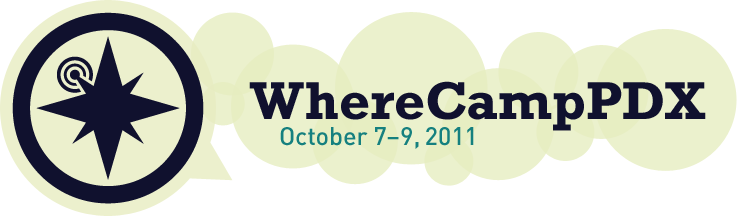
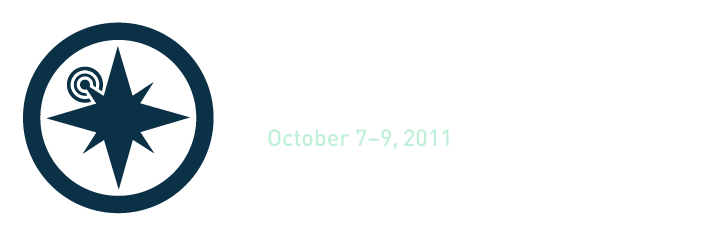
Improved 2011 theme, widened site

diff --git a/style.css b/style.css
@@ -45,7 +45,7 @@ clear:both;
 }
 
 div#container,div#primary {
-margin-top:2em;
+margin-top:1em;
 }
 
 form#commentform .form-label {
@@ -153,7 +153,6 @@ text-align:right;
 
 div.sidebar h3 {
 font-size:1.2em;
-font-family: Garamond, "Times New Roman", Times, serif
 }
 
 div.sidebar input#s {
@@ -213,14 +212,14 @@ body {
 }
 
 #wrapper {
-	width: 900px;
-	margin: 20px auto;
+	width: 960px;
+	margin: 0 auto 20px;
 	position: relative;
 }
 
 #header {
-	background: url('i/header.png') no-repeat 80px 40px;
-	height: 256px;
+	background: url('i/header.png') no-repeat 115px 7px;
+	height: 246px;
 	position: relative;
 	z-index: 5;
 }
@@ -246,7 +245,7 @@ body {
 
 div#menu {
 	position: absolute;
-	top: 0px;
+	top: 20px;
 	right: 0;
 	/* -webkit-box-shadow: -10px 8px 20px rgba(0, 0, 0, 0.7);*/
 	/* -moz-box-shadow: -10px 8px 20px rgba(0, 0, 0, 0.7);*/
@@ -262,9 +261,8 @@ div#menu ul a {
 	text-decoration:none;
 	border-left: 1px solid #ccc;
 	color: #10112e;
-	background: #e6edc0;
-  background: rgba(230, 237, 192,0.8);
-	font-family: "Lucida Grande", "Lucida Sans", "Verdana", sans-serif;
+	background: #fff;
+  background: rgba(255, 255, 255,0.8);
 	font-weight: bold;
 }
  
@@ -285,20 +283,21 @@ div#menu ul a.last {
 
 div#menu ul a.active {
 	background: #fff;
+  color: #43457c;
 }
 
 div#menu ul a:hover {
-	background: #f6f6f6;
+	background: #fff;
 }
 
 #content {
-  background: #e6edc0;
-  background: rgba(230, 237, 192,0.8);
-	width: 620px;
+  /* background: #e6edc0;*/
+  /* background: rgba(230, 237, 192,0.8);*/
+	width: 685px;
 	position: absolute;
 	left: 75px;
-	top: 240px;
-	padding: .5em .5em 0 .5em;
+	top: 233px;
+	/* padding: .5em .5em 0 .5em;*/
 	z-index: 1;
 	-moz-border-radius: .5em;
 	-webkit-border-radius: .5em;
@@ -372,7 +371,6 @@ div.entry-date {
 	border-bottom: 1px solid #ccc;
 	background-color: #10112e;
 	font-size: .7em;
-	font-family: "Lucida Grande", "Lucida Sans", Verdana, sans-serif;
 	color: #fff;
 }
 
@@ -383,7 +381,6 @@ h2.page-title {
 h2.entry-title a, h3.entry-title a {
 	color: #10112e;
 	text-decoration: none;
-	font-family: Garamond, "Times New Roman", Times, serif
 }
 
 div.sidebar {

diff --git a/header.php b/header.php
@@ -1,7 +1,7 @@
 <!DOCTYPE html PUBLIC "-//W3C//DTD XHTML 1.0 Transitional//EN" "http://www.w3.org/TR/xhtml1/DTD/xhtml1-transitional.dtd">
 <html xmlns="http://www.w3.org/1999/xhtml" <?php language_attributes() ?>>
 <head profile="http://gmpg.org/xfn/11">
-	<title><?php wp_title( '-', true, 'right' ); echo wp_specialchars( get_bloginfo('name'), 1 ) ?></title>
+	<title><?php wp_title( '-', true, 'right' ); echo esc_html( get_bloginfo('name'), 1 ) ?></title>
 	<meta http-equiv="content-type" content="<?php bloginfo('html_type') ?>; charset=<?php bloginfo('charset') ?>" />
 	<link rel="stylesheet" type="text/css" href="<?php bloginfo('stylesheet_url') ?>" />
 	<!--[if lte IE 6]>
@@ -16,8 +16,8 @@
 	</style>
 	<![endif]-->
 <?php wp_head() // For plugins ?>
-	<link rel="alternate" type="application/rss+xml" href="<?php bloginfo('rss2_url') ?>" title="<?php printf( __( '%s latest posts', 'sandbox' ), wp_specialchars( get_bloginfo('name'), 1 ) ) ?>" />
-	<link rel="alternate" type="application/rss+xml" href="<?php bloginfo('comments_rss2_url') ?>" title="<?php printf( __( '%s latest comments', 'sandbox' ), wp_specialchars( get_bloginfo('name'), 1 ) ) ?>" />
+	<link rel="alternate" type="application/rss+xml" href="<?php bloginfo('rss2_url') ?>" title="<?php printf( __( '%s latest posts', 'sandbox' ), esc_html( get_bloginfo('name'), 1 ) ) ?>" />
+	<link rel="alternate" type="application/rss+xml" href="<?php bloginfo('comments_rss2_url') ?>" title="<?php printf( __( '%s latest comments', 'sandbox' ), esc_html( get_bloginfo('name'), 1 ) ) ?>" />
 	<link rel="pingback" href="<?php bloginfo('pingback_url') ?>" />
 </head>
 
@@ -26,7 +26,7 @@
 <div id="wrapper" class="hfeed">
 
 	<div id="header">
-		<h1 id="blog-title"><span><a href="<?php bloginfo('home') ?>/" title="<?php echo wp_specialchars( get_bloginfo('name'), 1 ) ?>" rel="home"><?php bloginfo('name') ?></a></span></h1>
+		<h1 id="blog-title"><span><a href="<?php bloginfo('url') ?>/" title="<?php echo wp_specialchars( get_bloginfo('name'), 1 ) ?>" rel="home"><?php bloginfo('name') ?></a></span></h1>
 		<div id="blog-description"><?php bloginfo('description') ?></div>
 	</div><!--  #header -->
 

diff --git a/functions.php b/functions.php
@@ -159,7 +159,7 @@ function sandbox_post_class( $print = true ) {
 	$c = array( 'hentry', "p$sandbox_post_alt", $post->post_type, $post->post_status );
 
 	// Author for the post queried
-	$c[] = 'author-' . sanitize_title_with_dashes(strtolower(get_the_author('login')));
+	// $c[] = 'author-' . sanitize_title_with_dashes(strtolower(get_the_author('login')));
 
 	// Category for the post queried
 	foreach ( (array) get_the_category() as $cat )
